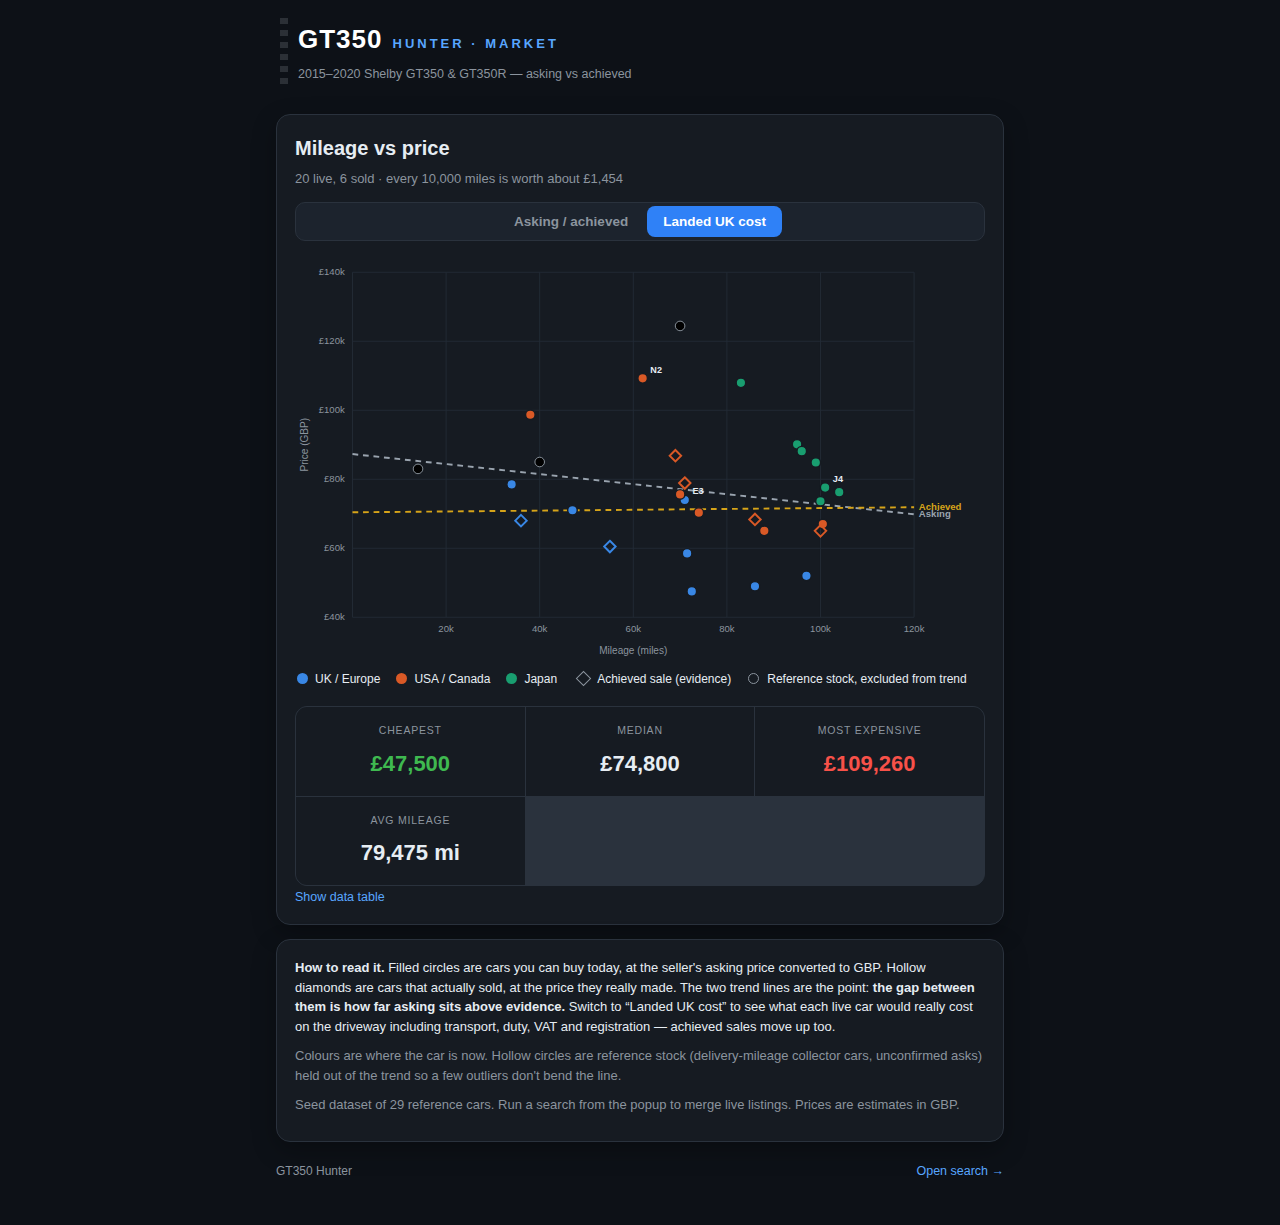
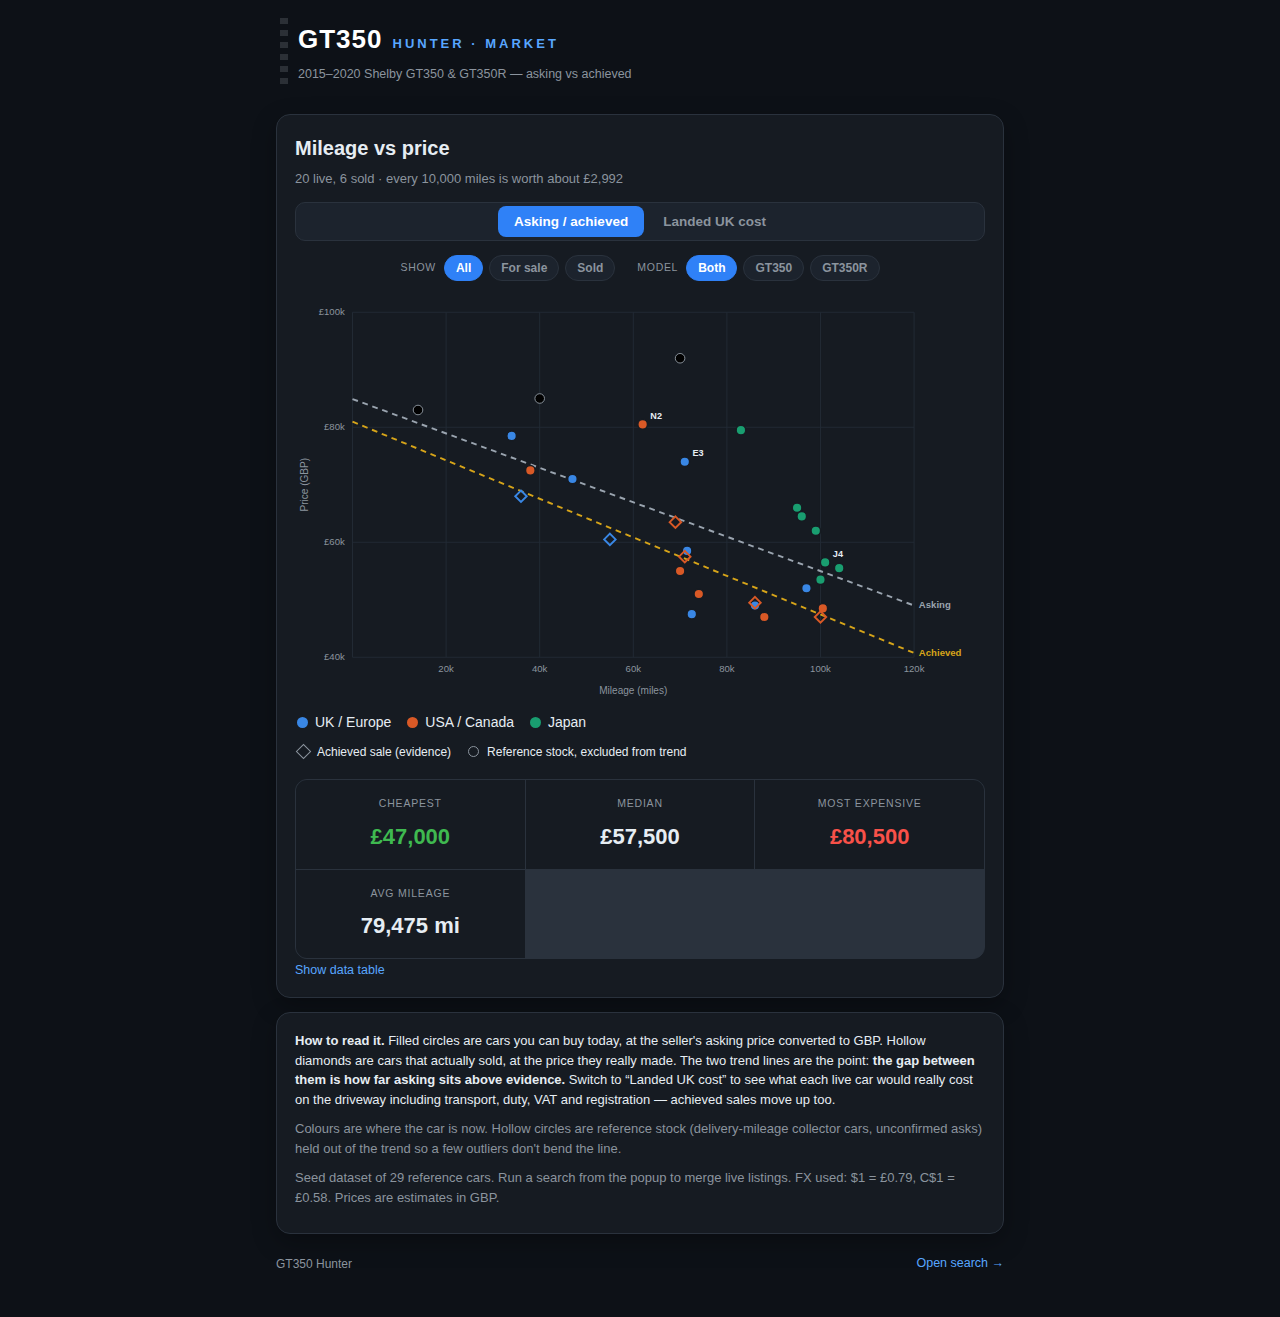
Add dashboard filters, clickable region legend, and FX-rate note
- Filter chips for status (all / for sale / sold) and model (GT350 / GT350R)
- Tap a region in the legend to toggle it on/off
- Depreciation-per-10k-miles falls back to the achieved trend when viewing
  sold cars only; stat tiles follow the in-focus priced set
- Empty-state message when filters exclude every car
- Surface the FX rates used in the source note

Claude-Session: https://claude.ai/code/session_01Ucx6tG1843Yp6YAuLLDc7i

diff --git a/src/dashboard.js b/src/dashboard.js
@@ -1,5 +1,5 @@
 // dashboard.js — renders the GT350 market view (mileage vs price).
-import { SEED_LISTINGS, regionMeta, REGIONS, toGBP } from './data.js';
+import { SEED_LISTINGS, regionMeta, REGIONS, toGBP, FX } from './data.js';
 
 const GBP = new Intl.NumberFormat('en-GB', {
   style: 'currency',
@@ -12,7 +12,24 @@ const state = {
   basis: 'asking', // 'asking' | 'landed'
   listings: [],
   liveMerged: 0,
+  filters: {
+    status: 'all', // 'all' | 'live' | 'sold'
+    model: 'all', // 'all' | 'gt350' | 'gt350r'
+    regions: new Set(Object.keys(REGIONS)),
+  },
 };
+
+// Points passing the current filter set. Reference stock only shows under "All".
+function visible() {
+  const f = state.filters;
+  return state.listings.filter((p) => {
+    if (f.model !== 'all' && p.model !== f.model) return false;
+    if (!f.regions.has(p.region)) return false;
+    if (f.status === 'live' && p.status !== 'live') return false;
+    if (f.status === 'sold' && p.status !== 'sold') return false;
+    return true;
+  });
+}
 
 // --- data loading ------------------------------------------------------------
 
@@ -102,11 +119,20 @@ const plotW = W - M.left - M.right;
 const plotH = H - M.top - M.bottom;
 
 function render() {
-  const live = state.listings.filter((p) => p.status === 'live');
-  const sold = state.listings.filter((p) => p.status === 'sold');
+  const pts = visible();
+  const live = pts.filter((p) => p.status === 'live');
+  const sold = pts.filter((p) => p.status === 'sold');
 
-  const values = state.listings.map(valueOf);
-  const miles = state.listings.map((p) => p.mileage);
+  const chart = document.getElementById('chart');
+  if (!pts.length) {
+    chart.innerHTML = `<div class="chart-empty">No cars match these filters. Turn a region back on, or widen the model/status filters.</div>`;
+    document.getElementById('subhead').textContent = '0 live, 0 sold';
+    renderStats([]);
+    return;
+  }
+
+  const values = pts.map(valueOf);
+  const miles = pts.map((p) => p.mileage);
 
   const xMax = niceCeil(Math.max(...miles, 100000), 20000);
   const yMin = niceFloor(Math.min(...values) * 0.98, 20000);
@@ -118,8 +144,10 @@ function render() {
   const askFit = linreg(live);
   const achFit = linreg(sold);
 
-  // Header sentence
-  const slope = askFit ? Math.abs(askFit.m) * 10000 : 0;
+  // Header sentence — depreciation per 10k miles, from asking where available,
+  // else from achieved (e.g. when viewing sold cars only).
+  const fit = askFit || achFit;
+  const slope = fit ? Math.abs(fit.m) * 10000 : 0;
   document.getElementById('subhead').textContent =
     `${live.length} live, ${sold.length} sold · every 10,000 miles is worth about ${GBP.format(Math.round(slope))}`;
 
@@ -156,7 +184,7 @@ function render() {
   drawTrend(achFit, 'trend-achieved', 'Achieved');
 
   // Points
-  for (const p of state.listings) {
+  for (const p of pts) {
     const x = sx(p.mileage), y = sy(valueOf(p));
     const color = regionMeta(p.region).color;
     const common = `class="pt" data-id="${p.id}" tabindex="0"`;
@@ -174,10 +202,12 @@ function render() {
     }
   }
 
-  document.getElementById('chart').innerHTML =
+  chart.innerHTML =
     `<svg viewBox="0 0 ${W} ${H}" preserveAspectRatio="xMidYMid meet" font-family="inherit">${parts.join('')}</svg>`;
 
-  renderStats(live);
+  // Stat tiles describe the priced market that's in focus.
+  const statBase = state.filters.status === 'sold' ? sold : live.length ? live : sold;
+  renderStats(statBase);
   wireTooltips();
 }
 
@@ -235,14 +265,25 @@ function renderLegend() {
   const el = document.getElementById('regionLegend');
   el.innerHTML = Object.entries(REGIONS)
     .map(
-      ([, meta]) =>
-        `<span class="legend-item"><span class="dot" style="background:${meta.color}"></span>${meta.label}</span>`
+      ([id, meta]) =>
+        `<button class="legend-item" data-region="${id}" title="Toggle ${meta.label}"><span class="dot" style="background:${meta.color}"></span>${meta.label}</button>`
     )
     .join('');
+  el.querySelectorAll('[data-region]').forEach((btn) => {
+    btn.addEventListener('click', () => {
+      const id = btn.dataset.region;
+      const regions = state.filters.regions;
+      if (regions.has(id) && regions.size > 1) regions.delete(id);
+      else regions.add(id);
+      btn.classList.toggle('off', !regions.has(id));
+      render();
+      if (!document.getElementById('tableWrap').hidden) renderTable();
+    });
+  });
 }
 
 function renderTable() {
-  const rows = state.listings
+  const rows = visible()
     .slice()
     .sort((a, b) => valueOf(a) - valueOf(b))
     .map(
@@ -273,9 +314,25 @@ function setBasis(basis) {
 function updateSourceNote() {
   const el = document.getElementById('srcNote');
   const base = `Seed dataset of ${SEED_LISTINGS.length} reference cars.`;
-  el.textContent = state.liveMerged
-    ? `${base} Merged ${state.liveMerged} live listing(s) from your last search. Prices are estimates in GBP.`
-    : `${base} Run a search from the popup to merge live listings. Prices are estimates in GBP.`;
+  const merge = state.liveMerged
+    ? `Merged ${state.liveMerged} live listing(s) from your last search.`
+    : `Run a search from the popup to merge live listings.`;
+  const fx = `FX used: $1 = £${FX.USD}, C$1 = £${FX.CAD}. Prices are estimates in GBP.`;
+  el.textContent = `${base} ${merge} ${fx}`;
+}
+
+// Chip group where exactly one option is active; runs onPick(value) on change.
+function wireChipGroup(containerId, dataKey, onPick) {
+  const container = document.getElementById(containerId);
+  container.querySelectorAll('.chip').forEach((chip) => {
+    chip.addEventListener('click', () => {
+      container.querySelectorAll('.chip').forEach((c) => c.classList.remove('active'));
+      chip.classList.add('active');
+      onPick(chip.dataset[dataKey]);
+      render();
+      if (!document.getElementById('tableWrap').hidden) renderTable();
+    });
+  });
 }
 
 // --- init --------------------------------------------------------------------
@@ -288,6 +345,9 @@ async function init() {
 
   document.getElementById('tgAsking').addEventListener('click', () => setBasis('asking'));
   document.getElementById('tgLanded').addEventListener('click', () => setBasis('landed'));
+
+  wireChipGroup('statusFilter', 'status', (v) => (state.filters.status = v));
+  wireChipGroup('modelFilter', 'model', (v) => (state.filters.model = v));
 
   const tableToggle = document.getElementById('tableToggle');
   tableToggle.addEventListener('click', () => {

diff --git a/src/dashboard.css b/src/dashboard.css
@@ -138,6 +138,53 @@ body {
   justify-content: center;
 }
 
+/* Filters */
+.filters {
+  display: flex;
+  flex-wrap: wrap;
+  justify-content: center;
+  gap: 8px 22px;
+  margin: 0 0 14px;
+}
+.filter-group {
+  display: inline-flex;
+  align-items: center;
+  gap: 6px;
+}
+.filter-label {
+  font-size: 10.5px;
+  text-transform: uppercase;
+  letter-spacing: 0.7px;
+  color: var(--muted);
+  margin-right: 2px;
+}
+.chip {
+  border: 1px solid var(--border);
+  background: var(--panel-2);
+  color: var(--muted);
+  font-size: 12px;
+  font-weight: 600;
+  padding: 5px 11px;
+  border-radius: 999px;
+  cursor: pointer;
+}
+.chip:hover {
+  color: var(--text);
+}
+.chip.active {
+  background: var(--accent);
+  border-color: var(--accent);
+  color: #fff;
+}
+
+/* Empty state */
+.chart-empty {
+  padding: 48px 12px;
+  text-align: center;
+  color: var(--muted);
+  font-size: 13px;
+}
+
 /* Chart */
 .chart {
   width: 100%;
@@ -242,6 +289,17 @@ body {
   gap: 7px;
   font-size: 12px;
   color: var(--text);
+}
+button.legend-item {
+  background: none;
+  border: 0;
+  padding: 2px 0;
+  cursor: pointer;
+  font: inherit;
+}
+button.legend-item.off {
+  opacity: 0.4;
+  text-decoration: line-through;
 }
 .dot {
   width: 11px;

diff --git a/src/dashboard.html b/src/dashboard.html
@@ -30,6 +30,21 @@
           </button>
         </div>
 
+        <div class="filters">
+          <div class="filter-group" id="statusFilter">
+            <span class="filter-label">Show</span>
+            <button class="chip active" data-status="all">All</button>
+            <button class="chip" data-status="live">For sale</button>
+            <button class="chip" data-status="sold">Sold</button>
+          </div>
+          <div class="filter-group" id="modelFilter">
+            <span class="filter-label">Model</span>
+            <button class="chip active" data-model="all">Both</button>
+            <button class="chip" data-model="gt350">GT350</button>
+            <button class="chip" data-model="gt350r">GT350R</button>
+          </div>
+        </div>
+
         <figure class="chart-figure">
           <div id="chart" class="chart" role="img" aria-label="Scatter plot of price against mileage"></div>
           <div id="tooltip" class="tooltip" hidden></div>

diff --git a/README.md b/README.md
@@ -15,7 +15,8 @@ cost** of importing an overseas car.
 - **Market dashboard.** A mileage-vs-price scatter with two trend lines —
   **asking** vs **achieved (sold)** — so you can see how far asking sits above
   real evidence. Stat tiles show cheapest / median / most expensive / average
-  mileage.
+  mileage. Filter by **status** (all / for sale / sold), by **model** (GT350 /
+  GT350R), and toggle **regions** on/off by tapping the legend.
 - **Landed UK cost.** Toggle between raw prices and the real cost on your
   driveway. Overseas cars are converted to GBP, then **+10% import duty, +20%
   VAT, +£3,000 shipping**. UK cars land as-is.
